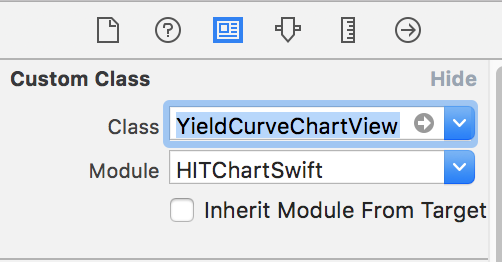
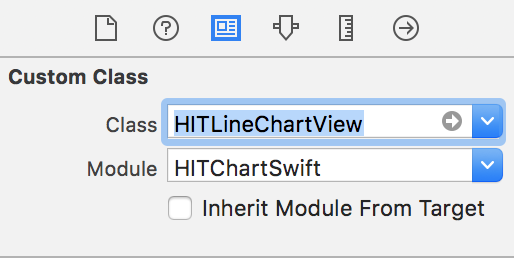
Modify line chart.

diff --git a/HITChartSwift/HITLineChartView.swift b/HITChartSwift/HITLineChartView.swift
@@ -1,5 +1,5 @@
 //
-//  HITYieldCurveChartView.swift
+//  HITLineChartView.swift
 //  HITChartSwift
 //
 //  Created by hitsubunnu on 2018/03/22.
@@ -8,14 +8,14 @@
 
 import UIKit
 
-open class HITYieldCurveChartView: UIView {
+open class HITLineChartView: UIView {
     @IBInspectable var background: UIColor = UIColor.white
     @IBInspectable var lineColor: UIColor = UIColor.color("0x0099aa")
     @IBInspectable var titleColor: UIColor = UIColor.color("0x0099aa")
     @IBInspectable var indicatorColor: UIColor = UIColor.color("0x0099aa")
     @IBInspectable var backgroundLineColor: UIColor = UIColor.color("0xe6e6e6")
     @IBInspectable var textColor: UIColor = UIColor.color("0x333333")
-    @IBInspectable var strokeWidth: CGFloat = 10
+    @IBInspectable var hapticFeedbackEnable: Bool = true
 
     private let kWidthRatio: CGFloat = 0.8
     private let kHeightRatio: CGFloat = 5/9
@@ -41,7 +41,7 @@ open class HITYieldCurveChartView: UIView {
     private let indicatorIcon = CAShapeLayer()
     private let indicatorText = CATextLayer()
     
-    public func draw(_ absMax: Int, values: [Double], dates: [Date], titles: [String]) {
+    public func draw(_ absMax: Int, values: [Double], label: (max: String, center: String, min: String), dates: [Date], titles: [String]) {
         self.layer.sublayers?.removeAll()
         self.absMax = absMax
         self.values = values
@@ -49,7 +49,7 @@ open class HITYieldCurveChartView: UIView {
         self.titles = titles
         self.previousIndex = values.count - 1
         
-        setupBackground()
+        setupBackground(max: label.max, center: label.center, min: label.min)
         setupTitle()
         setupSettleDate(dates)
         drawChart(values: values)
@@ -59,7 +59,7 @@ open class HITYieldCurveChartView: UIView {
         setupGestureRecognizer()
     }
     
-    private func setupBackground() {
+    private func setupBackground(max: String, center: String, min: String) {
         backgroundColor = background
         
         let width = bounds.width
@@ -70,17 +70,17 @@ open class HITYieldCurveChartView: UIView {
         // max
         let yMax = (height - height * kHeightRatio) / 2
         setupBackgroundLine(x: x, y: yMax, width: lineWidth)
-        setupBackgroundText(x: x, y: yMax, string: String(format:"+%d%%", absMax))
+        setupBackgroundText(x: x, y: yMax, string: max)
         
         // center
         let yCenter = height / 2
-        setupBackgroundLine(x: x, y: yCenter, width: lineWidth)
-        setupBackgroundText(x: x, y: yCenter, string: "0%")
-        
+        setupBackgroundCenterLine(x: x, y: yCenter, width: lineWidth)
+        setupBackgroundText(x: x, y: yCenter, string: center)
+
         // min
         let yMin = (height + height * kHeightRatio) / 2
         setupBackgroundLine(x: x, y: yMin, width: lineWidth)
-        setupBackgroundText(x: x, y: yMin, string: String(format:"-%d%%", absMax))
+        setupBackgroundText(x: x, y: yMin, string: min)
     }
     
     private func setupBackgroundLine(x: CGFloat, y: CGFloat, width: CGFloat) {
@@ -90,9 +90,23 @@ open class HITYieldCurveChartView: UIView {
         
         let layer = CAShapeLayer()
         layer.path = path.cgPath
-        layer.frame = frame
-        layer.fillColor = UIColor.clear.cgColor
         layer.strokeColor = backgroundLineColor.cgColor
+        layer.contentsScale = UIScreen.main.scale
+        
+        self.layer.addSublayer(layer)
+    }
+
+    private func setupBackgroundCenterLine(x: CGFloat, y: CGFloat, width: CGFloat) {
+        let path = UIBezierPath()
+        path.move(to: CGPoint(x: x, y: y))
+        path.addLine(to: CGPoint(x: x + width, y: y))
+        
+        let layer = CAShapeLayer()
+        layer.path = path.cgPath
+        layer.strokeColor = backgroundLineColor.cgColor
+        layer.lineWidth = 1
+        layer.lineJoin = kCALineJoinRound
+        layer.lineDashPattern = [NSNumber(value: 2)]
         layer.contentsScale = UIScreen.main.scale
         
         self.layer.addSublayer(layer)
@@ -100,17 +114,17 @@ open class HITYieldCurveChartView: UIView {
     
     private func setupBackgroundText(x: CGFloat, y: CGFloat, string: String) {
         let text = CATextLayer()
-        let textWidth: CGFloat = 32.0
+        let textWidth: CGFloat = 44.0
         let textHeight: CGFloat = 12.0
         let xText = x - textWidth
         let yText = y - textHeight / 2
         text.string = string
         text.foregroundColor = textColor.cgColor
-        text.fontSize = HITDimens.Txt.s.rawValue
-        text.font = UIFont.systemFont(ofSize: HITDimens.Txt.s.rawValue)
+        text.fontSize = Dimens.Txt.s.rawValue
+        text.font = UIFont.systemFont(ofSize: Dimens.Txt.s.rawValue)
         text.frame = CGRect(x: xText, y: yText, width: textWidth, height: textHeight)
         text.contentsScale = UIScreen.main.scale
-        text.alignmentMode = kCAAlignmentCenter
+        text.alignmentMode = kCAAlignmentLeft
         
         self.layer.addSublayer(text)
     }
@@ -132,8 +146,8 @@ open class HITYieldCurveChartView: UIView {
             let layer = CATextLayer()
             layer.string = choosedDate.date.yyyy_mm_dd()
             layer.foregroundColor = textColor.cgColor
-            layer.fontSize = HITDimens.Txt.s.rawValue
-            layer.font = UIFont.systemFont(ofSize: HITDimens.Txt.s.rawValue)
+            layer.fontSize = Dimens.Txt.s.rawValue
+            layer.font = UIFont.systemFont(ofSize: Dimens.Txt.s.rawValue)
             layer.frame = CGRect(x: x, y: y, width: layerWidth, height: layerHeight)
             layer.contentsScale = UIScreen.main.scale
             layer.alignmentMode = kCAAlignmentCenter
@@ -233,14 +247,14 @@ open class HITYieldCurveChartView: UIView {
         let width = bounds.width
         let height = bounds.height
         let x: CGFloat = (width - width * kWidthRatio) / 2
-        let y: CGFloat = (height - height*kHeightRatio)/4 - HITDimens.Txt.l.rawValue/2
+        let y: CGFloat = (height - height*kHeightRatio)/4 - Dimens.Txt.l.rawValue/2
         let textWidth: CGFloat = width*kWidthRatio
         let textHeight: CGFloat = 20.0
         
         setupTitleText(titles.last)
         titleText.foregroundColor = titleColor.cgColor
-        titleText.fontSize = HITDimens.Txt.l.rawValue
-        titleText.font = UIFont.boldSystemFont(ofSize: HITDimens.Txt.l.rawValue)
+        titleText.fontSize = Dimens.Txt.l.rawValue
+        titleText.font = UIFont.boldSystemFont(ofSize: Dimens.Txt.l.rawValue)
         titleText.frame = CGRect(x: x, y: y, width: textWidth, height: textHeight)
         titleText.contentsScale = UIScreen.main.scale
         titleText.alignmentMode = kCAAlignmentLeft
@@ -299,7 +313,7 @@ open class HITYieldCurveChartView: UIView {
         indicatorText.alignmentMode = kCAAlignmentCenter
         indicatorText.foregroundColor = UIColor.white.cgColor
         indicatorText.backgroundColor = indicatorColor.cgColor
-        indicatorText.fontSize = HITDimens.Txt.s.rawValue
+        indicatorText.fontSize = Dimens.Txt.s.rawValue
         indicatorText.font = UIFont.boldSystemFont(ofSize: 9)
         indicatorText.frame = CGRect(x: xText, y: absMinY + margin, width: kIndicatorTextWidth, height: kIndicatorTextHeight)
         indicatorText.contentsScale = UIScreen.main.scale
@@ -344,7 +358,7 @@ open class HITYieldCurveChartView: UIView {
         indicator.path = path.cgPath
         indicatorText.frame = CGRect(x: xText, y: absMinY + margin, width: kIndicatorTextWidth, height: kIndicatorTextHeight)
         indicatorText.string = dates[index].yyyy_mm_dd()
-        if #available(iOS 10.0, *) {
+        if #available(iOS 10.0, *), hapticFeedbackEnable {
             UISelectionFeedbackGenerator().selectionChanged()
         }
         CATransaction.commit()

diff --git a/HITChartSwiftSample/HITChartSwiftSample/ViewController.swift b/HITChartSwiftSample/HITChartSwiftSample/ViewController.swift
@@ -43,31 +43,62 @@ class ViewController: UIViewController {
         (date: "2018/03/23", close: 8440.00, open: 8703.80, high: 8720.00, low: 8333.40, volume: 60.51, change: -3.06)
     ]
 
+    private var absMax = 0
+    private var dates = [Date]()
+    private var titles = [String]()
+    
     override func viewDidLoad() {
         super.viewDidLoad()
 
-        // data format
+        formatData()
+    }
+    
+    private func formatData() {
         /// absMax
-        let max = abs(data.map{ $0.change }.max() ?? 0)
-        let min = abs(data.map{ $0.change }.min() ?? 0)
-        let absMax = max > min ? Int(max) : Int(min)
+        let max = abs(data.map{ $0.change }.max() ?? 0.0).rounded(.up)
+        let min = abs(data.map{ $0.change }.min() ?? 0.0).rounded(.up)
+        absMax = Int(max > min ? max : min)
         
         /// date
         let dateFormatter = DateFormatter()
         dateFormatter.dateFormat = "yyyy/MM/dd"
         dateFormatter.timeZone = TimeZone(abbreviation: "GMT+9:00")
-        let dates: [Date] = data.map { return dateFormatter.date(from: $0.date) ?? Date() }
+        dates = data.map { return dateFormatter.date(from: $0.date) ?? Date() }
         
         /// title
-        let title = data.map { "BTC/USD closing price: \($0.close) change: \($0.change)%  volume: \($0.volume)" }
+        titles = data.map { "BTC/USD closing price: \($0.close) change: \($0.change)%  volume: \($0.volume)" }
         
-        // init chart
-        let chart = HITYieldCurveChartView(frame: CGRect(x: 0, y: 0, width: UIScreen.main.bounds.height, height: UIScreen.main.bounds.width))
+        tapLineChart(self)
+    }
+    
+    @IBAction func tapLineChart(_ sender: Any) {
+        let chart = HITLineChartView(frame: CGRect(x: 0, y: 0, width: UIScreen.main.bounds.height, height: UIScreen.main.bounds.width))
         chart.center = view.center
         chart.transform = CGAffineTransform(rotationAngle: CGFloat(Double.pi/2))
         view.addSubview(chart)
-        chart.draw(absMax, values: data.map{ $0.change }, dates: dates, titles: title)
-
+        let max = String((data.map{ $0.close }.max() ?? 0.0).rounded(.up))
+        let min = String((data.map{ $0.close }.min() ?? 0.0).rounded(.down))
+        chart.draw(absMax,
+                   values: data.map{ $0.change },
+                   label: (max: max, center: "", min: min),
+                   dates: dates,
+                   titles: titles)
+        
+        let tapGesture = UITapGestureRecognizer(target: self, action: #selector(closeMultiChart(_:)))
+        chart.addGestureRecognizer(tapGesture)
+    }
+    
+    @IBAction func tapYieldCurveChart(_ sender: Any) {
+        let chart = HITLineChartView(frame: CGRect(x: 0, y: 0, width: UIScreen.main.bounds.height, height: UIScreen.main.bounds.width))
+        chart.center = view.center
+        chart.transform = CGAffineTransform(rotationAngle: CGFloat(Double.pi/2))
+        view.addSubview(chart)
+        chart.draw(absMax,
+                   values: data.map{ $0.change },
+                   label: (max: "+\(absMax)%", center: "0%", min: "-\(absMax)%"),
+                   dates: dates,
+                   titles: titles)
+        
         let tapGesture = UITapGestureRecognizer(target: self, action: #selector(closeMultiChart(_:)))
         chart.addGestureRecognizer(tapGesture)
     }

diff --git a/HITChartSwift/Utility/Dimens.swift b/HITChartSwift/Utility/Dimens.swift
@@ -1,5 +1,5 @@
 //
-//  HITDimens.swift
+//  Dimens.swift
 //  HITChartSwift
 //
 //  Created by hitsubunnu on 2018/03/22.
@@ -8,7 +8,7 @@
 
 import UIKit
 
-struct HITDimens {
+struct Dimens {
     enum Txt: CGFloat {
         case xs     = 10
         case s      = 12

diff --git a/README.md b/README.md
@@ -1,6 +1,10 @@
 # HITChartSwift
 A bitcoin and stock chart lib for iOS. Written in Swift.
 
+## line chart
+closing price chart:
+![](https://github.com/hitsubunnu/HITChartSwift/blob/master/images/close.gif)
+
 yield curve chart:
 ![](https://github.com/hitsubunnu/HITChartSwift/blob/master/images/yieldcurve.gif)
 
@@ -39,9 +43,9 @@ import HITChartSwift
 ```
 
 ```
-let chart = HITYieldCurveChartView(frame: CGRect(x: 0, y: 0, width: UIScreen.main.bounds.height, height: UIScreen.main.bounds.width))
+let chart = HITLineChartView(frame: CGRect(x: 0, y: 0, width: UIScreen.main.bounds.height, height: UIScreen.main.bounds.width))
 view.addSubview(chart)
-chart.draw(absMax, values: data.map{ $0.change }, dates: dates, titles: title)
+chart.draw(absMax, values: data.map{ $0.change }, label: (max: max, center: "", min: min), dates: dates, titles: titles)
 ```
 See [HITChartSwiftSample](https://github.com/hitsubunnu/HITChartSwift/blob/master/HITChartSwiftSample/HITChartSwiftSample/ViewController.swift)
 
